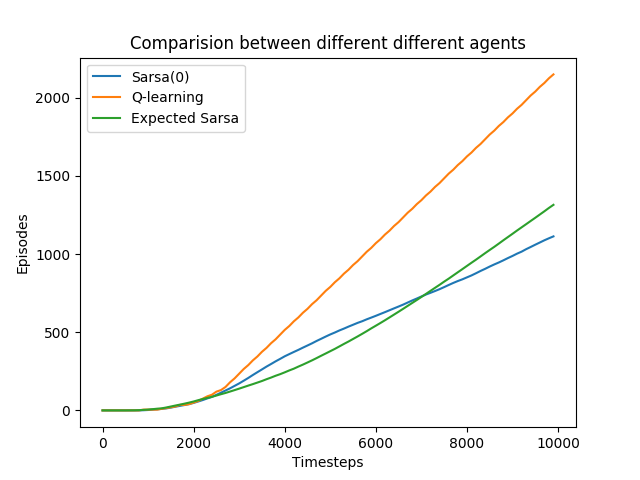
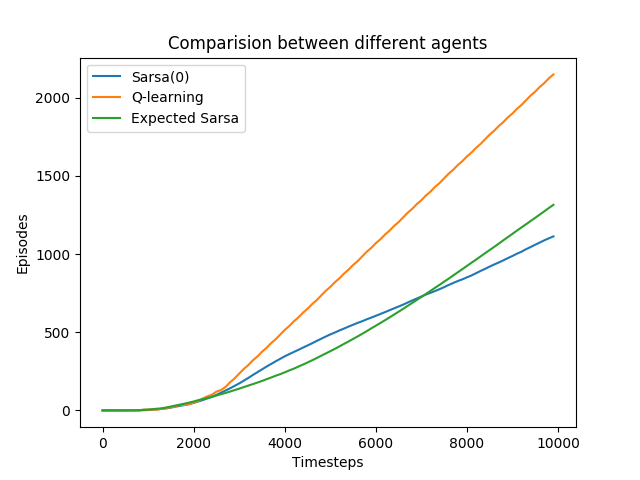
Comparision plots prepared

Changed region(s): [[0.1875, 0.0625, 0.8125, 0.125]]

diff --git a/Assignment3/code/plot.py b/Assignment3/code/plot.py
@@ -7,16 +7,37 @@ from sarsa_expected import SarsaExpected
 
 # File to run in order to generate all the plots sequentially 
 if __name__ == '__main__':
-	
 	data_X = np.arange(start=0, stop=10000, step=100)
 
-	# # Agent 1: Sarsa(0)
+	# Agent 1: Sarsa(0)
 	data_Y1 = np.zeros((100, 1))
 	for seed in range(50):
 		print(f'Seed: {seed}')
-		sarsa = Sarsa(seed=seed)
+		sarsa = Sarsa(seed=seed, num_actions=4)
 		y = sarsa.run()
 		data_Y1 += y
+	data_Y1 /= 10
+	helper.plotSingle(data_X, data_Y1, "Sarsa(0)")
+
+	# Sarsa(0) with King's move
+	data_Y = np.zeros((100, 1))
+	for seed in range(50):
+		print(f'Seed: {seed}')
+		sarsa = Sarsa(seed=seed, num_actions=8)
+		y = sarsa.run()
+		data_Y += y
+	data_Y /= 10
+	helper.plotSingle(data_X, data_Y, "Sarsa(0) with King's move")
+
+	# Sarsa(0) with stochastic wind
+	data_Y = np.zeros((100, 1))
+	for seed in range(50):
+		print(f'Seed: {seed}')
+		sarsa = Sarsa(seed=seed, num_actions=4, stochastic=True)
+		y = sarsa.run()
+		data_Y += y
+	data_Y /= 10
+	helper.plotSingle(data_X, data_Y, "Sarsa(0) with stochastic wind")
 
 	# Agent 2: Q-learning
 	data_Y2 = np.zeros((100, 1))	
@@ -25,6 +46,7 @@ if __name__ == '__main__':
 		sarsa = QLearning(seed=seed)
 		y = sarsa.run()
 		data_Y2 += y
+	data_Y2 /= 10
 
 	# Agent 3: Expected-Sarsa
 	data_Y3 = np.zeros((100, 1))	
@@ -33,7 +55,8 @@ if __name__ == '__main__':
 		sarsa = SarsaExpected(seed=seed)
 		y = sarsa.run()
 		data_Y3 += y
+	data_Y3 /= 10
 
-	data_Y = [data_Y1 / 10, data_Y2 / 10, data_Y3 / 10]
-	helper.plot(data_X, data_Y)
+	data_Y = [data_Y1, data_Y2, data_Y3]
+	helper.plotComparision(data_X, data_Y)
 

diff --git a/Assignment3/code/gridworld.py b/Assignment3/code/gridworld.py
@@ -1,13 +1,18 @@
+import numpy as np
+
 # Class to implement gridworld problem
 class Gridworld:
 
 	# Initialize the world
-	def __init__(self, rows=7, cols=10, start=(3, 0), end=(3, 7)):
+	def __init__(self, rows=7, cols=10, start=(3, 0), end=(3, 7), seed=0, stochastic=False):
 		self.rows = 7
 		self.cols = 10
+		# Start and end state
 		self.start = start[0] * self.cols + start[1]
 		self.end = end[0] * self.cols + end[1]
+		# Wind in the grid
 		self.wind = self.generateWind()
+		self.stochastic = stochastic
 		self.actions = {
 			0: 'N', 
 			1: 'E', 
@@ -18,6 +23,8 @@ class Gridworld:
 			6: 'SW',
 			7: 'NW',
 		}
+		# Random number generator
+		self.rg = np.random.default_rng(seed=seed)
 
 	# Function to generate wind in every column
 	def generateWind(self):
@@ -25,7 +32,10 @@ class Gridworld:
 
 	# Function to return wind magnitude at a given column
 	def getWind(self, col):
-		return self.wind[col]
+		if self.stochastic:
+			return self.wind[col] + self.rg.integers(-1, 2) 
+		else:
+			return self.wind[col]
 
 	# Return the next state based on the current state and action taken
 	def nextState(self, state, action):

diff --git a/Assignment3/code/sarsa.py b/Assignment3/code/sarsa.py
@@ -7,16 +7,14 @@ from gridworld import Gridworld
 class Sarsa(Gridworld):
 
 	# Initialize the agent and the world
-	def __init__(self, epsilon=0.1, alpha=0.5, gamma=1, seed=0, num_actions=4, rows=7, cols=10, start=(3, 0), end=(3, 7)):
+	def __init__(self, epsilon=0.1, alpha=0.5, gamma=1, seed=0, stochastic=False, num_actions=4, rows=7, cols=10, start=(3, 0), end=(3, 7)):
 		# Initialize the gridworld
-		super().__init__(rows, cols, start, end)
+		super().__init__(rows, cols, start, end, seed, stochastic)
 		self.epsilon = epsilon
 		self.alpha = alpha
 		self.gamma = gamma
 		self.num_actions = num_actions
 		self.Q = np.zeros((self.rows * self.cols, self.num_actions))
-		# Random number generator
-		self.rg = np.random.default_rng(seed=seed)
 
 	# Choose the action based on epsilon-greedy policy and current state
 	def nextAction(self, state):

diff --git a/Assignment3/code/helper.py b/Assignment3/code/helper.py
@@ -1,14 +1,23 @@
 import matplotlib.pyplot as plt 
 
-# Function to plot data
-def plot(X, Y):
+# Function to plot data for a single agent
+def plotSingle(X, Y, title):
+	plt.ylabel(f'Episodes')
+	plt.xlabel('Timesteps')
+	line, = plt.plot(X, Y)
+	line.set_label('Sarsa(0)')
+	plt.legend()
+	plt.title(title)
+	plt.show()
+
+# Function to compare between different agents
+def plotComparision(X, Y):
 	plt.ylabel(f'Episodes')
 	plt.xlabel('Timesteps')
 	agents = ['Sarsa(0)', 'Q-learning', 'Expected Sarsa']
-	colors = ['c', 'r', 'k']
 	for i in range(len(Y)):
 		line, = plt.plot(X, Y[i])
 		line.set_label(f'{agents[i]}')
 	plt.legend()
-	plt.title('Comparision between different different agents')
+	plt.title('Comparision between different agents')
 	plt.show()
